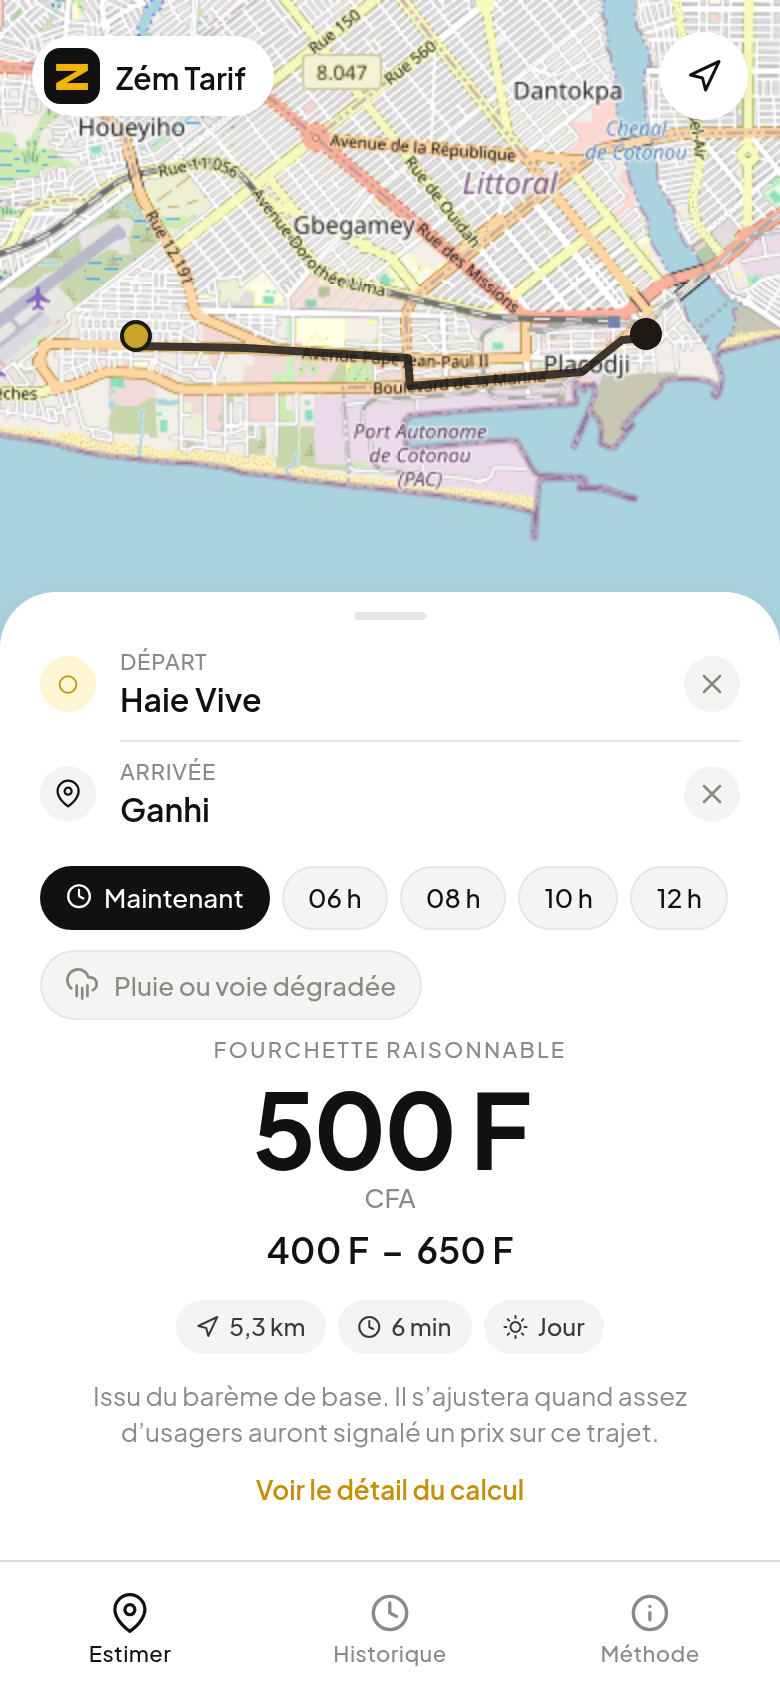
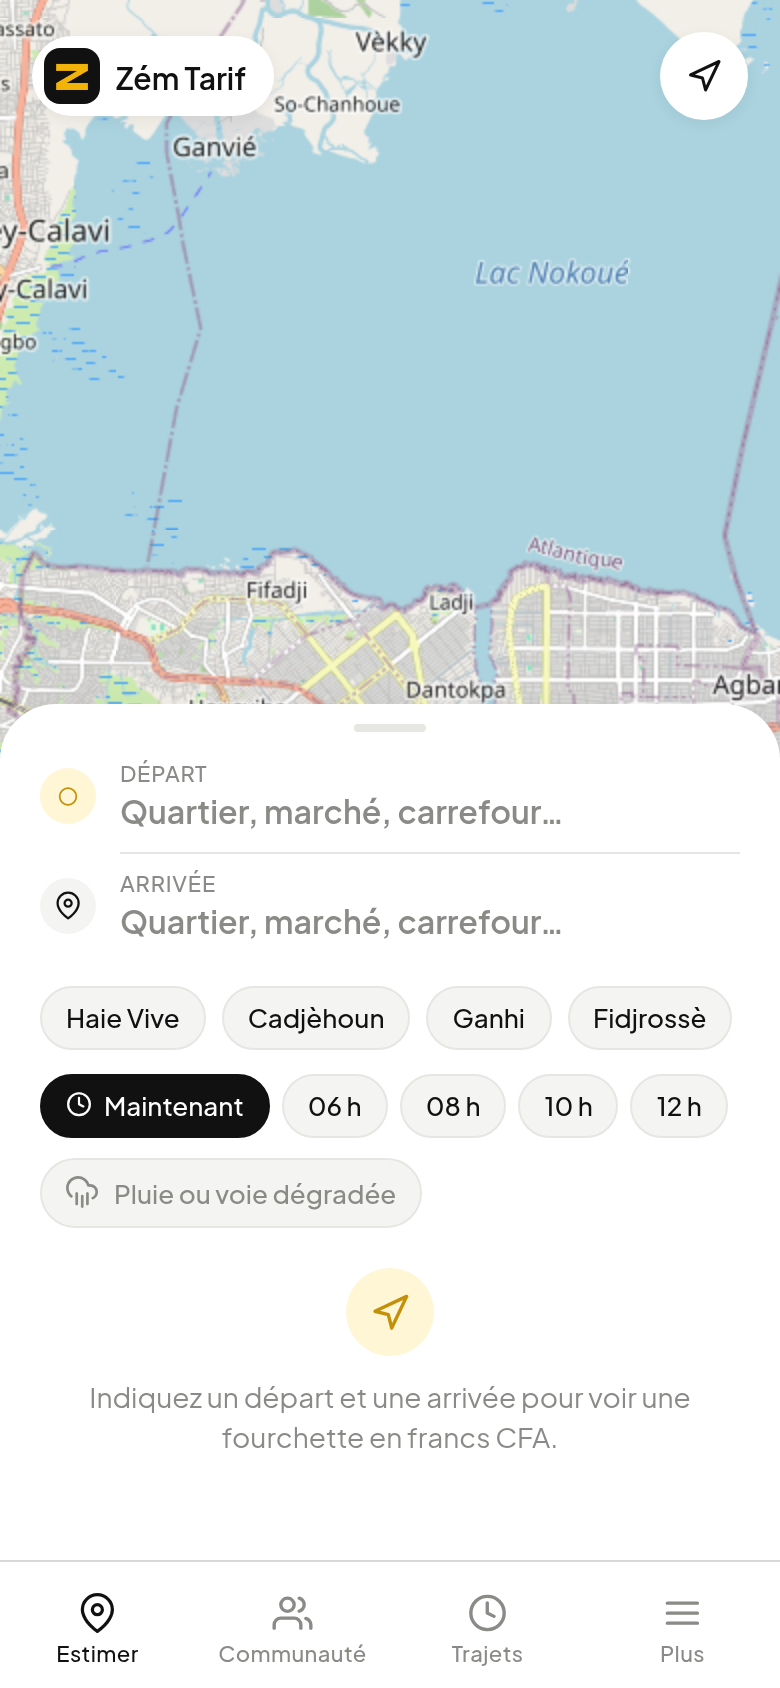
Documente la démo, l'API, le Play Store et les nouvelles captures.

diff --git a/README.md b/README.md
@@ -1,12 +1,14 @@
 # Zém Tarif
 
-Application pour estimer un prix raisonnable de course en zémidjan à Cotonou, Abomey-Calavi et Porto-Novo.
+Application pour estimer un prix raisonnable de course en zémidjan à Cotonou, Abomey-Calavi et Porto-Novo. Slogan : **Le juste prix du zém**.
 
-Le zém n’a pas de compteur. On se met d’accord avant de monter, selon la distance, l’heure et parfois la pluie. Il n’existe pas, à notre connaissance, de grille officielle ou syndicale en vigueur pour le zém de rue. Zém Tarif calcule une fourchette à partir d’un barème transparent, que les usagers peuvent ensuite corriger en indiquant le prix réellement payé.
+Le zém n’a pas de compteur. On se met d’accord avant de monter, selon la distance, l’heure et parfois la pluie. Il n’existe pas, à notre connaissance, de grille officielle ou syndicale en vigueur pour le zém de rue. Zém Tarif calcule une fourchette à partir d’un barème transparent, que les usagers peuvent ensuite corriger en indiquant le prix réellement payé. Les avis peuvent ensuite être partagés avec les autres, pour affiner les fourchettes de la communauté.
 
 Ce n’est pas un prix imposé, et ce n’est pas GoZem ni Yango.
 
-Démo en ligne : [zem-tarif.onrender.com](https://zem-tarif.onrender.com)
+- Démo en ligne : [zem-tarif.onrender.com](https://zem-tarif.onrender.com)
+- Code source : [github.com/bienvenuessegnon/zem-tarif](https://github.com/bienvenuessegnon/zem-tarif)
+- API : [zem-tarif-api.onrender.com](https://zem-tarif-api.onrender.com)
 
 ![Écran d’estimation](docs/estimer.png)
 
@@ -17,12 +19,16 @@ Démo en ligne : [zem-tarif.onrender.com](https://zem-tarif.onrender.com)
 - Itinéraire routier (OSRM). Si le calcul d’itinéraire échoue, la distance à vol d’oiseau est majorée de 25 %.
 - Fourchette en francs CFA, avec la distance et une durée indicative.
 - Majoration de nuit (22 h – 6 h, heure de Porto-Novo) et option « pluie ou voie dégradée ».
-- Signalement du prix payé, conservé sur l’appareil.
-- Historique des estimations.
+- Écran d’accueil animé (logo et slogan), puis une courte introduction au premier lancement, avec un pseudo facultatif (pas de compte, pas de téléphone ni d’e-mail).
+- Signalement du prix payé, conservé sur l’appareil et, si le réseau est disponible, envoyé à l’API. Hors ligne, l’avis est mis en file d’attente et renvoyé plus tard.
+- Historique des estimations et trajets fréquents (favoris).
+- Écran « Communauté » : médiane des prix signalés, trajet par trajet.
+- Conseils de négociation et de sécurité (dont le casque).
+- Page « Plus » pour le pseudo, les conseils, la méthode de calcul, et pour revoir l’introduction.
 - Écran « Méthode », avec les sources et les limites du modèle.
-- L’application tourne dans Expo Go (Android) et dans un navigateur.
+- L’application tourne dans Expo Go (Android), dans un navigateur, et peut être installée via un fichier APK.
 
-Un petit serveur FastAPI, facultatif, permet de rassembler les avis. Un schéma PostgreSQL prêt pour Supabase est fourni. Sans serveur, tout reste local.
+Un serveur FastAPI rassemble les avis dans une base PostgreSQL. Sans serveur, ou si le service gratuit est endormi, tout reste utilisable en local.
 
 ## Le barème
 
@@ -125,19 +131,33 @@ npm run export:web
 
 Le dossier `dist/` peut être servi par n’importe quel hébergeur de fichiers statiques (Render, Vercel, GitHub Pages, etc.). Comme la navigation est côté client, il faut renvoyer toutes les routes vers `index.html`. Le fichier `public/_redirects` le fait pour Render et Netlify ; `vercel.json` le fait pour Vercel.
 
-### Fichier APK Android
+### Fichier APK Android et publication sur le Play Store
 
-La construction d’un APK passe par [EAS Build](https://docs.expo.dev/build/setup/) et demande un compte Expo. Elle n’a pas été lancée ici.
+Le fichier `eas.json` prévoit deux profils Android :
+
+- `preview` : fichier APK, pour une installation directe (partage interne).
+- `production` : fichier AAB (`app-bundle`), exigé par le Play Store.
 
 ```bash
 npm install --global eas-cli
 eas login
-eas build --platform android --profile preview
+eas build --platform android --profile preview      # APK
+eas build --platform android --profile production   # AAB
 ```
 
-Le profil `preview` de `eas.json` produit un fichier APK, que l’on peut installer directement.
+On peut aussi construire un APK en local, après avoir installé un JDK 17 et le SDK Android, avec `npx expo prebuild --platform android` puis `cd android && ./gradlew assembleRelease`.
 
-### Serveur optionnel
+Pour publier sur le Play Store :
+
+1. Créer un compte [Google Play Console](https://play.google.com/console) (frais d’inscription uniques de 25 dollars US).
+2. Créer une fiche d’application (titre, description courte et longue, captures d’écran téléphone, icône, typologie, classification du contenu).
+3. Fournir une politique de confidentialité : l’application demande la position uniquement pour proposer un départ, et un pseudo facultatif, sans compte.
+4. Envoyer le fichier AAB produit par le profil `production`, puis suivre le parcours de test interne, de test fermé, éventuellement de test ouvert, avant la production.
+5. Renseigner la déclaration de données (position, identifiant d’appareil, avis de prix, pseudo s’il est renseigné).
+
+### Serveur et base de données
+
+L’API publique est [https://zem-tarif-api.onrender.com](https://zem-tarif-api.onrender.com). Pour un serveur local :
 
 ```bash
 cd backend
@@ -153,26 +173,41 @@ uvicorn main:app --reload --port 8000
 EXPO_PUBLIC_API_URL=http://localhost:8000
 ```
 
-Le fichier `backend/schema.sql` reprend la même structure pour Supabase.
+Une chaîne vide (`EXPO_PUBLIC_API_URL=`) désactive le réseau.
+
+Points d’entrée principaux : `GET /sante`, `POST /signalements`, `GET /stats`. Un identifiant d’appareil limite les envois (8 par heure, 20 par jour). Les prix hors de l’intervalle 50–20 000 F sont refusés. Si l’envoi échoue, l’avis reste sur l’appareil et sera renvoyé plus tard.
+
+La base de production est un PostgreSQL Render, plan gratuit, région Francfort. Selon la [documentation Render](https://render.com/docs/free.md), une base gratuite expire 30 jours après sa création, avec un délai de grâce de 14 jours pour passer à un plan payant, après quoi elle est supprimée. Elle est limitée à 1 Go, il n’y en a qu’une par espace de travail, et aucun sauvegarde n’est fournie. Les services web gratuits s’endorment après 15 minutes d’inactivité (le réveil prend environ une minute).
+
+Si cette base expire, le schéma `backend/schema.sql` peut être repris tel quel sur [Supabase](https://supabase.com/) ou [Neon](https://neon.tech/), qui proposent aussi des offres gratuites plus durables. Il suffit alors de changer `DATABASE_URL` sur le service d’API.
+
+### À quoi sert l’application
+
+Le zém se négocie à chaque course. Sans compteur, un visiteur, un nouvel arrivant ou simplement quelqu’un qui prend rarement la moto paie souvent trop cher. Zém Tarif donne une fourchette claire, fondée sur la distance réelle, l’heure et la pluie, et permet à chacun de signaler le prix réellement payé. Plus les avis s’accumulent, plus les fourchettes de la communauté deviennent utiles. Ce n’est pas un tarif imposé : c’est un point de départ pour se mettre d’accord, et un rappel de bon sens (s’entendre avant de monter, avoir de la monnaie, porter un casque).
 
 ## Captures
 
+- [docs/splash.png](docs/splash.png) — écran d’accueil, logo et slogan
+- [docs/onboarding.png](docs/onboarding.png) — introduction au premier lancement
 - [docs/estimer.png](docs/estimer.png) — écran d’estimation, carte et feuille du bas
+- [docs/communaute.png](docs/communaute.png) — prix de la communauté
+- [docs/conseils.png](docs/conseils.png) — conseils de négociation et de sécurité
+- [docs/plus.png](docs/plus.png) — profil, pseudo et réglages
 - [docs/detail.png](docs/detail.png) — détail du calcul
 - [docs/methode.png](docs/methode.png) — sources et limites
-- [docs/historique.png](docs/historique.png) — historique
+- [docs/historique.png](docs/historique.png) — trajets fréquents et historique
 - [docs/signaler.png](docs/signaler.png) — signaler un prix payé
-
-Une planche d’identité (logo, palette, écrans) figure aussi dans le dépôt de travail.
 
 ## Technique
 
 - React Native et Expo (TypeScript), Expo Router.
 - Le calcul du prix est isolé dans `src/pricing/`, sans dépendance à React, et testé avec Jest.
 - Cartes : tuiles OpenStreetMap, via Leaflet.
-- Stockage local : AsyncStorage.
+- Stockage local : AsyncStorage (historique, favoris, file d’attente, profil).
+- Animations : react-native-reanimated (feuille, compteur de prix, transitions).
 - Typographie : Plus Jakarta Sans (SIL Open Font License).
 - Fuseau horaire utilisé pour la nuit : Africa/Porto-Novo.
+- API : FastAPI et PostgreSQL (SQLite en secours, en local).
 
 Nominatim est interrogé au plus une fois par seconde, avec un identifiant de contact, conformément à [sa politique d’usage](https://operations.osmfoundation.org/policies/nominatim/). Les cartes portent la mention © les contributeurs d’OpenStreetMap.
 
